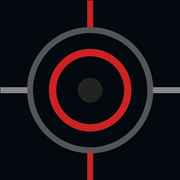
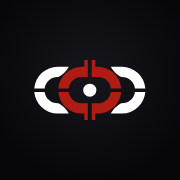
Identidade: símbolo oficial Moked no lugar do "alvo" antigo e nome do app "Moked CheckTest" (#200)
- Novo componente src/MokedSimbolo.jsx (SVG oficial enviado pelo Marcio): arcos/ponto em branco no fundo escuro
  do app, preto nos documentos em fundo claro; vermelho Moked #AE1C13.
- O alvo redondo saiu dos cabeçalhos (Home, painéis, registros, leitura) e do relatório KeyAccess.
- Ícones do app (192, 512, apple-touch) gerados a partir do SVG.
- Nome: "MokLog CheckTest" → "Moked CheckTest" em telas, rodapés de relatórios, notificações, título e manifesto.
  Dentro de cada área o cabeçalho segue com o nome da divisão (MokLog, MokPat, MokImp).

Claude-Session: https://claude.ai/code/session_01NDCy4kmWMLLikTJUNKBR2a

Changed region(s): [[0.0, 0.0, 1.0, 1.0]]

diff --git a/src/App.jsx b/src/App.jsx
@@ -1,4 +1,5 @@
 import { Ico, EMOJI_PARA_ICONE } from "./Icones";
+import MokedSelo from "./MokedSimbolo";
 import { temaMoked, badgeMoked, estadoMoked, ESTADOS_MOKED } from "./temaMoked";
 import { getDocsSeguro } from "./lerServidor";
 import React, { useState, useEffect, useCallback, useRef, useMemo } from "react";
@@ -274,7 +275,7 @@ async function sendEmailJS(subject, message, fromName) {
         service_id: EMAILJS_SERVICE_ID,
         template_id: EMAILJS_TEMPLATE_ID,
         user_id: EMAILJS_PUBLIC_KEY,
-        template_params: { subject, message, name: fromName || "MokLog CheckTest", email: "moklog@moked.com.br" }
+        template_params: { subject, message, name: fromName || "Moked CheckTest", email: "moklog@moked.com.br" }
       })
     });
     return true;
@@ -388,10 +389,10 @@ function checkPendingNotifications(stored) {
     const todayStr = now.toLocaleDateString("sv-SE");
     const filledToday = lastDate === todayStr;
     if(hour >= 8 && hour < 14) {
-      sendNotification("MokLog CheckTest", `${p.id} – ${p.name}: Lembrete do teste semanal de hoje!`);
+      sendNotification("Moked CheckTest", `${p.id} – ${p.name}: Lembrete do teste semanal de hoje!`);
     }
     if(hour >= 14 && !filledToday) {
-      sendNotification("MokLog CheckTest ⚠", `${p.id} – Teste semanal ainda não registrado. Não esqueça!`);
+      sendNotification("Moked CheckTest ⚠", `${p.id} – Teste semanal ainda não registrado. Não esqueça!`);
     }
   });
   } catch(e){ console.log("Notif check error:",e); }
@@ -1065,36 +1066,8 @@ function StatusRing({ pct=0, size=64, color="#22c55e", empty=false }) {
   );
 }
 
-function MoklogLogo({ size = 44 }) {
-  return (
-    <svg width={size} height={size} viewBox="0 0 100 100" xmlns="http://www.w3.org/2000/svg">
-      <defs>
-        <radialGradient id="bgGrad" cx="50%" cy="50%" r="50%">
-          <stop offset="0%" stopColor="#2a2a2a"/><stop offset="100%" stopColor="#111"/>
-        </radialGradient>
-        <linearGradient id="metalGrad" x1="0%" y1="0%" x2="100%" y2="100%">
-          <stop offset="0%" stopColor="#d0d0d0"/><stop offset="40%" stopColor="#888"/>
-          <stop offset="60%" stopColor="#aaa"/><stop offset="100%" stopColor="#555"/>
-        </linearGradient>
-        <linearGradient id="redGrad" x1="0%" y1="0%" x2="100%" y2="100%">
-          <stop offset="0%" stopColor="#cc2222"/><stop offset="50%" stopColor="#991111"/>
-          <stop offset="100%" stopColor="#7a0e0e"/>
-        </linearGradient>
-      </defs>
-      <rect width="100" height="100" rx="14" fill="url(#bgGrad)"/>
-      <circle cx="50" cy="50" r="38" fill="none" stroke="url(#metalGrad)" strokeWidth="7"/>
-      <circle cx="50" cy="50" r="26" fill="none" stroke="url(#redGrad)" strokeWidth="8"/>
-      <circle cx="50" cy="50" r="7" fill="#111"/><circle cx="50" cy="50" r="5" fill="#222"/>
-      <rect x="47.5" y="8" width="5" height="18" rx="2" fill="url(#redGrad)"/>
-      <rect x="47.5" y="74" width="5" height="18" rx="2" fill="url(#redGrad)"/>
-      <rect x="8" y="47.5" width="18" height="5" rx="2" fill="url(#metalGrad)"/>
-      <rect x="74" y="47.5" width="18" height="5" rx="2" fill="url(#metalGrad)"/>
-      <path d="M14 30 L8 30 L8 70 L14 70" fill="none" stroke="url(#metalGrad)" strokeWidth="4" strokeLinecap="round"/>
-      <path d="M86 30 L92 30 L92 70 L86 70" fill="none" stroke="url(#metalGrad)" strokeWidth="4" strokeLinecap="round"/>
-      <circle cx="35" cy="32" r="3" fill="white" opacity="0.25"/>
-    </svg>
-  );
-}
+// 12/11/2026: o "alvo" redondo saiu; o cabeçalho usa o símbolo oficial Moked (src/MokedSimbolo.jsx).
+const MoklogLogo = MokedSelo;
 
 function HealthRing({ pct, size=56 }) {
   const r=22, circ=2*Math.PI*r, dash=circ*(pct/100);
@@ -2536,13 +2509,13 @@ function ReportScreen({project, state, meta, photos, ctmkData={}, onBack, onHome
   const [emailSent,setEmailSent]=useState(false);
   const [sending,setSending]=useState(false);
   const text=generateReportText(project,state,meta,photos);
-  const subject=`[${project.id}] MokLog CheckTest – Teste Semanal – ${fmtDate(meta.date)}`;
+  const subject=`[${project.id}] Moked CheckTest – Teste Semanal – ${fmtDate(meta.date)}`;
   const handleWhatsApp=()=>{
     const h=computeHealth(project,state);
     const waIssues=[];
     for(const cat of project.categories){const s=state[cat.id];if(!s)continue;if(cat.type==="single"){const st=resolveStatus(s);if(st!=="ok")waIssues.push(`• ${cat.label}: ${st==="partial"?"Parcial":"Inop"}`);}else if(cat.type==="items"){s.forEach((v,i)=>{const st=resolveStatus(v);if(st!=="ok")waIssues.push(`• ${cat.itemLabels[i]}: ${st==="partial"?"Parcial":"Inop"}`);});}else if(cat.type==="count"){const inopN=s.inoperative?.length??0;if(inopN>0)waIssues.push(`• ${cat.label}: ${inopN} inop`);}}
     const inopText=waIssues.length>0?`\n\n*Itens com problema:*\n${waIssues.slice(0,10).join("\n")}${waIssues.length>10?`\n...+${waIssues.length-10} mais`:""}`:"\n\n✅ Todos os itens operando normalmente.";
-    const msg=encodeURIComponent(`*[${project.id}] MokLog CheckTest – ${fmtDate(meta.date)}*\n📍 ${project.name}\n📊 Saúde: *${h.pct}%* | ✅ ${h.ok} OK | ⚠ ${h.partial} Parcial | 🔴 ${h.inop} Inop\n👤 Líder: ${meta.leader||"—"} · CCO: ${meta.cco||"—"}\n✍ Assinatura: ${meta.signature||"—"}`+inopText+`\n\n🔗 https://moklog-checktest.vercel.app\n_MokLog CheckTest © Moked Security_`);
+    const msg=encodeURIComponent(`*[${project.id}] Moked CheckTest – ${fmtDate(meta.date)}*\n📍 ${project.name}\n📊 Saúde: *${h.pct}%* | ✅ ${h.ok} OK | ⚠ ${h.partial} Parcial | 🔴 ${h.inop} Inop\n👤 Líder: ${meta.leader||"—"} · CCO: ${meta.cco||"—"}\n✍ Assinatura: ${meta.signature||"—"}`+inopText+`\n\n🔗 https://moklog-checktest.vercel.app\n_Moked CheckTest © Moked Security_`);
     window.open(`https://wa.me/?text=${msg}`,"_blank");
   };
   const handleEmail=async()=>{
@@ -2551,7 +2524,7 @@ function ReportScreen({project, state, meta, photos, ctmkData={}, onBack, onHome
     const issues=[];
     for(const cat of project.categories){const s=state[cat.id];if(!s)continue;if(cat.type==="single"){const st=resolveStatus(s);if(st!=="ok")issues.push(`  • ${cat.label}: ${st==="partial"?"PARCIAL":"INOPERANTE"}${s.since?` desde ${fmtDate(s.since)}`:""} ${s.note?`- ${s.note}`:""}`);}else if(cat.type==="items"){s.forEach((v,i)=>{const st=resolveStatus(v);if(st!=="ok")issues.push(`  • ${cat.label} / ${cat.itemLabels[i]}: ${st==="partial"?"PARCIAL":"INOPERANTE"}${v.since?` desde ${fmtDate(v.since)}`:""} ${v.note?`- ${v.note}`:""}`);});}else if(cat.type==="count"){(s.inoperative??[]).forEach(it=>issues.push(`  • ${cat.label} [${it.id||"?"}]${it.since?` desde ${fmtDate(it.since)}`:""} ${it.note?`- ${it.note}`:""}`));}}
     const msg=[`================================================`,"  MOKLOG CHECKTEST - RELATORIO DE TESTE SEMANAL","================================================",`Projeto  : ${project.id} - ${project.name}`,`Data     : ${fmtDate(meta.date)}`,`Lider    : ${meta.leader||"--"}`,`CCO      : ${meta.cco||"--"}`,`Assinatura: ${meta.signature||"--"}`,`Saude: ${h.pct}% | OK: ${h.ok} | Parcial: ${h.partial} | Inop: ${h.inop}`,issues.length>0?`\nProblemas:\n${issues.join("\n")}`:"Todos OK","\nhttps://moklog-checktest.vercel.app","================================================"].join("\n");
-    const success=await sendEmailJS(subject,msg,`MokLog CheckTest – ${project.id}`);
+    const success=await sendEmailJS(subject,msg,`Moked CheckTest – ${project.id}`);
     setSending(false);
     if(success)setEmailSent(true);else alert("Erro ao enviar. Verifique a conexao.");
   };
@@ -2628,7 +2601,7 @@ function ViewScreen({projectId, token, stored}) {
         <div style={{background:"#060c18",border:"1px solid #0f172a",borderRadius:12,padding:"16px",marginBottom:12}}>
           <div style={{display:"flex",alignItems:"center",gap:12}}>
             <MoklogLogo size={40}/>
-            <div style={{flex:1}}><div style={{fontSize:15,fontWeight:800,color:"#f1f5f9"}}>MokLog CheckTest</div><div style={{fontSize:12,color:"#cc2222",fontWeight:700}}>{project.id} – {project.name}</div><div style={{fontSize:11,color:"#64748b"}}>Pendencias para manutencao · {fmtDate(last.meta?.date)}</div></div>
+            <div style={{flex:1}}><div style={{fontSize:15,fontWeight:800,color:"#f1f5f9"}}>Moked CheckTest</div><div style={{fontSize:12,color:"#cc2222",fontWeight:700}}>{project.id} – {project.name}</div><div style={{fontSize:11,color:"#64748b"}}>Pendencias para manutencao · {fmtDate(last.meta?.date)}</div></div>
             <HealthRing pct={h.pct} size={52}/>
           </div>
         </div>
@@ -2647,7 +2620,7 @@ function ViewScreen({projectId, token, stored}) {
             </div>
           ))}
         </div>
-        <div style={{marginTop:16,fontSize:11,color:"#94a3b8",textAlign:"center"}}>MokLog CheckTest © Moked Security Consulting · Somente leitura</div>
+        <div style={{marginTop:16,fontSize:11,color:"#94a3b8",textAlign:"center"}}>Moked CheckTest © Moked Security Consulting · Somente leitura</div>
       </div>
     </div>
   );

diff --git a/src/KeyAccessFalha.jsx b/src/KeyAccessFalha.jsx
@@ -1,10 +1,11 @@
 import CampoData from "./CampoData";
+import { simboloSVG } from "./MokedSimbolo";
 import { Ico, IcoTxt } from "./Icones";
 import { iconeTema } from "./temaClaro";
 import { checkPin } from "./session";
 // ════════════════════════════════════════════════════════════════════════
 // KeyAccessFalha.jsx — Registro de falhas do sistema KeyAccess
-// MokLog CheckTest · Moked Consulting Security
+// Moked CheckTest · Moked Consulting Security
 //
 // Fluxo de campo (SEM PIN): Home → escolhe projeto → escolhe quem está
 // registrando (lista da Equipe) → marca o tipo de falha → salva.
@@ -37,21 +38,7 @@ import { grantSession, hasGerencial } from "./session";
 const COL = "keyaccess_falhas";
 
 // Brasão Moked (mesmo do Mapa de Equipe) — usado no cabeçalho do PDF.
-const MOKED_LOGO_SVG = `<svg class="logo" width="54" height="54" viewBox="0 0 100 100" xmlns="http://www.w3.org/2000/svg">
-  <defs>
-    <radialGradient id="kbg" cx="50%" cy="50%" r="50%"><stop offset="0%" stop-color="#2a2a2a"/><stop offset="100%" stop-color="#111"/></radialGradient>
-    <linearGradient id="kmetal" x1="0%" y1="0%" x2="100%" y2="100%"><stop offset="0%" stop-color="#d0d0d0"/><stop offset="40%" stop-color="#888"/><stop offset="100%" stop-color="#555"/></linearGradient>
-    <linearGradient id="kred" x1="0%" y1="0%" x2="100%" y2="100%"><stop offset="0%" stop-color="#cc2222"/><stop offset="50%" stop-color="#991111"/><stop offset="100%" stop-color="#7a0e0e"/></linearGradient>
-  </defs>
-  <rect width="100" height="100" rx="14" fill="url(#kbg)"/>
-  <circle cx="50" cy="50" r="38" fill="none" stroke="url(#kmetal)" stroke-width="7"/>
-  <circle cx="50" cy="50" r="26" fill="none" stroke="url(#kred)" stroke-width="8"/>
-  <circle cx="50" cy="50" r="7" fill="#111"/>
-  <rect x="47.5" y="8" width="5" height="18" rx="2" fill="url(#kred)"/>
-  <rect x="47.5" y="74" width="5" height="18" rx="2" fill="url(#kred)"/>
-  <rect x="8" y="47.5" width="18" height="5" rx="2" fill="url(#kmetal)"/>
-  <rect x="74" y="47.5" width="18" height="5" rx="2" fill="url(#kmetal)"/>
-</svg>`;
+const MOKED_LOGO_SVG = simboloSVG({ largura: 78, fundo: "claro", classe: "logo" });
 
 // Apenas estes 8 projetos usam KeyAccess (P260A/B/C e P505 não usam).
 export const PROJETOS_KA = [
@@ -908,7 +895,7 @@ async function gerarPDFRelatorioKA({ modo, projsSel, dadosPorProjeto, dataIni, d
   *{box-sizing:border-box;margin:0;padding:0}
   body{font-family:'Segoe UI',Arial,sans-serif;background:#fff;color:#121212;font-size:12px;padding:18px}
   .hdr{display:flex;align-items:center;gap:16px;border-bottom:3px solid #B21E27;padding-bottom:14px;margin-bottom:16px}
-  .hdr .logo{width:54px;height:54px;flex:none}
+  .hdr .logo{width:78px;height:auto;flex:none}
   .hdr .brand{font-size:11px;color:#64748b;font-weight:800;text-transform:uppercase;letter-spacing:.7px}
   .hdr .title{font-size:20px;font-weight:900;color:#121212;line-height:1.15;margin-top:2px}
   .hdr .sub{font-size:12px;color:#B21E27;font-weight:700;margin-top:2px}
@@ -990,7 +977,7 @@ ${blocoGeralHTML}
 
 ${blocos}
 
-<div class="footer">MokLog CheckTest © Moked Consulting Security · Análise Técnica de Falhas KeyAccess · Classificação Local/Geral por cruzamento dos ${PROJETOS_KA.length} parques</div>
+<div class="footer">Moked CheckTest © Moked Consulting Security · Análise Técnica de Falhas KeyAccess · Classificação Local/Geral por cruzamento dos ${PROJETOS_KA.length} parques</div>
 </body></html>`;
 
   const blob = new Blob([html],{type:"text/html"});

diff --git a/src/MokedSimbolo.jsx b/src/MokedSimbolo.jsx
@@ -1,0 +1,36 @@
+// Símbolo oficial Moked (SVG enviado pelo Marcio em 12/11/2026). Substitui o "alvo" redondo antigo em todo o app.
+// No desenho original os arcos e o ponto central são pretos; em fundo escuro (o app) eles vão em branco — o vermelho
+// Moked (#AE1C13) não muda. `fundo="claro"` devolve o desenho exatamente como no arquivo.
+export const VERMELHO_MOKED = "#AE1C13";
+const ARCOS = [
+  "M 159.39 31 L 108 31 A 107 107 0 0 0 1.3 130 L 48.54 130 A 60 60 0 0 1 108 78 L 111.77 78 A 122 122 0 0 0 159.39 31 Z",
+  "M 159.39 245 L 108 245 A 107 107 0 0 1 1.3 146 L 48.54 146 A 60 60 0 0 0 108 198 L 111.77 198 A 122 122 0 0 1 159.39 245 Z",
+  "M 350.61 31 L 402 31 A 107 107 0 0 1 508.7 130 L 461.46 130 A 60 60 0 0 0 402 78 L 398.23 78 A 122 122 0 0 1 350.61 31 Z",
+  "M 350.61 245 L 402 245 A 107 107 0 0 0 508.7 146 L 461.46 146 A 60 60 0 0 1 402 198 L 398.23 198 A 122 122 0 0 0 350.61 245 Z",
+];
+const NUCLEO = [
+  "M 230 0 L 246 0 L 246 78 L 218 78 A 60 60 0 0 0 158.54 130 L 111.3 130 A 107 107 0 0 1 218 31 L 230 31 Z",
+  "M 230 276 L 246 276 L 246 198 L 218 198 A 60 60 0 0 1 158.54 146 L 111.3 146 A 107 107 0 0 0 218 245 L 230 245 Z",
+  "M 280 0 L 264 0 L 264 78 L 292 78 A 60 60 0 0 1 351.46 130 L 398.7 130 A 107 107 0 0 0 292 31 L 280 31 Z",
+  "M 280 276 L 264 276 L 264 198 L 292 198 A 60 60 0 0 0 351.46 146 L 398.7 146 A 107 107 0 0 1 292 245 L 280 245 Z",
+];
+// Miolo do SVG (sem a tag <svg>), para tela e para os documentos em HTML.
+export const mioloSimbolo = (neutro) => `${ARCOS.map((d) => `<path d="${d}" fill="${neutro}"/>`).join("")}${NUCLEO.map((d) => `<path d="${d}" fill="${VERMELHO_MOKED}"/>`).join("")}<circle cx="255" cy="138" r="30" fill="${neutro}"/>`;
+export const simboloSVG = ({ largura = 54, fundo = "claro", classe = "" } = {}) => `<svg${classe ? ` class="${classe}"` : ""} width="${largura}" height="${Math.round((largura * 276) / 510)}" viewBox="0 0 510 276" xmlns="http://www.w3.org/2000/svg" role="img" aria-label="Moked">${mioloSimbolo(fundo === "escuro" ? "#ffffff" : "#000000")}</svg>`;
+
+// Só o símbolo (proporção 510 × 276).
+export function MokedSimbolo({ largura = 60, fundo = "escuro", style }) {
+  const neutro = fundo === "escuro" ? "#ffffff" : "#000000";
+  return <svg width={largura} height={(largura * 276) / 510} viewBox="0 0 510 276" xmlns="http://www.w3.org/2000/svg" role="img" aria-label="Moked" style={style}>
+    {ARCOS.map((d, i) => <path key={`a${i}`} d={d} fill={neutro} />)}
+    {NUCLEO.map((d, i) => <path key={`n${i}`} d={d} fill={VERMELHO_MOKED} />)}
+    <circle cx="255" cy="138" r="30" fill={neutro} />
+  </svg>;
+}
+
+// Selo quadrado (mesmo espaço que o alvo antigo ocupava nos cabeçalhos): fundo escuro com o símbolo dentro.
+export default function MokedSelo({ size = 44 }) {
+  return <span aria-hidden="false" style={{ width: size, height: size, flexShrink: 0, display: "inline-flex", alignItems: "center", justifyContent: "center", borderRadius: size * 0.22, background: "radial-gradient(circle at 50% 40%, #1c1c22 0%, #0a0a0d 75%)", border: "1px solid #2a2a31" }}>
+    <MokedSimbolo largura={size * 0.8} />
+  </span>;
+}

diff --git a/src/relatorios/laudoSemanal.js b/src/relatorios/laudoSemanal.js
@@ -94,7 +94,7 @@ export function montarLaudoSemanal(project, state, meta, { ctmkInfo = null, ener
     <div class="mk-k"><div class="mk-kv ${pend.length ? "mk-da" : ""}">${pend.length}</div><div class="mk-kl">pendências</div><div class="mk-mu mk-sm">${r.inop} inoperantes · ${r.parcial} parciais</div></div>
     <div class="mk-k"><div class="mk-kv ${maiorAging > 0 ? "mk-da" : ""}">${maiorAging ? maiorAging + " d" : "—"}</div><div class="mk-kl">maior tempo em aberto</div><div class="mk-mu mk-sm">${maior ? escHTML(maior.unico ? maior.cat : maior.item) : "sem pendências"}</div></div>
     <div class="mk-k"><div class="mk-kv ${pend.length && semTrat ? "mk-wa" : ""}">${pend.length ? `${pend.length - semTrat} de ${pend.length}` : "—"}</div><div class="mk-kl">com tratativa registrada</div><div class="mk-mu mk-sm">${pend.length ? `${semTrat} sem tratativa` : ""}</div></div></section>
-  <div class="mk-nota" style="margin:-4px 0 10px">${single ? "Levantamento feito em vistoria presencial pelo consultor Moked, item a item, com as quantidades informadas pelo cliente; não substitui laudo técnico de fabricante." : "Cada dispositivo é testado individualmente e registrado em tempo real pelo líder no MokLog CheckTest."} Status: 0% = inoperante · 1–99% = parcial · 100% = operacional. Saúde = (operacionais + 0,5 × parciais) ÷ ativos testados; cada câmera do CFTV conta como um ativo.</div>`;
+  <div class="mk-nota" style="margin:-4px 0 10px">${single ? "Levantamento feito em vistoria presencial pelo consultor Moked, item a item, com as quantidades informadas pelo cliente; não substitui laudo técnico de fabricante." : "Cada dispositivo é testado individualmente e registrado em tempo real pelo líder no Moked CheckTest."} Status: 0% = inoperante · 1–99% = parcial · 100% = operacional. Saúde = (operacionais + 0,5 × parciais) ÷ ativos testados; cada câmera do CFTV conta como um ativo.</div>`;
 
   // ── Disponibilidade por sistema (tabela com barra) + onde estão as falhas
   const mx = Math.max(1, ...fs.map((f) => f.inop + f.parcial));
@@ -173,5 +173,5 @@ export function montarLaudoSemanal(project, state, meta, { ctmkInfo = null, ener
 
   const extras = single?.extrasHTML || "";
   return documentoMoked({ project, titulo, subtitulo: sub, numero, hoje, corpo: css + hero + kpis + disponibilidade + blocoGravacao + extras + pendencias + energia, fecho: execucao, empresaLogo: !single,
-    rodape: `${numero} · ${single ? "Relatório Situacional" : "Laudo Técnico Semanal"} · ${project.id} ${project.name || ""} · ${semana} · Moked Consulting Security · MokLog CheckTest` });
+    rodape: `${numero} · ${single ? "Relatório Situacional" : "Laudo Técnico Semanal"} · ${project.id} ${project.name || ""} · ${semana} · Moked Consulting Security · Moked CheckTest` });
 }

diff --git a/src/relatorios/padraoMoked.js b/src/relatorios/padraoMoked.js
@@ -20,7 +20,7 @@ export function barrasMoked(itens, fmt = (v) => String(v)) {
 // fecho (opcional): último bloco do relatório, impresso JUNTO da assinatura — evita folha só com assinatura.
 // Bloco "Base dos dados + assinatura". Exportado para ser embutido no fim de uma tabela (CCO), junto das últimas linhas.
 export function blocoFimMoked() {
-  return `<section class="mk-fim"><div><div class="mk-mu">Base dos dados</div><div class="mk-sm">Registros lançados pelas equipes no MokLog CheckTest, supervisionados pela Moked Consulting Security.</div></div>
+  return `<section class="mk-fim"><div><div class="mk-mu">Base dos dados</div><div class="mk-sm">Registros lançados pelas equipes no Moked CheckTest, supervisionados pela Moked Consulting Security.</div></div>
 <div class="mk-ass"><div class="mk-linha"></div><b>José Fonseca</b><div class="mk-mu">Consultor de Segurança · Moked Consulting Security</div><div class="mk-mu">jose.fonseca@moked.com.br</div></div></section>`;
 }
 
@@ -29,7 +29,7 @@ export function blocoFimMoked() {
 // empresaLogo=false: só o logo Moked (documentos de grupo/gerenciais, sem empresa de segurança única).
 export function documentoMoked({ project, titulo, subtitulo, numero, corpo, interno = false, tag = "", hoje = new Date(), rodape, fecho = "", fimEmbutido = false, empresaLogo = true }) {
   const theme = empresaLogo && project?.id ? (getTheme(project.id) || {}) : {};
-  return `<!DOCTYPE html><html lang="pt-BR"><head><meta charset="UTF-8"><title>${escHTML(titulo)} — ${escHTML(project?.id || "")}</title><style>${cssMoked()}${rodapePagina(rodape || `${numero} · ${titulo} · ${project?.id || ""} ${project?.name || ""} · Moked Consulting Security · MokLog CheckTest`)}</style></head><body>
+  return `<!DOCTYPE html><html lang="pt-BR"><head><meta charset="UTF-8"><title>${escHTML(titulo)} — ${escHTML(project?.id || "")}</title><style>${cssMoked()}${rodapePagina(rodape || `${numero} · ${titulo} · ${project?.id || ""} ${project?.name || ""} · Moked Consulting Security · Moked CheckTest`)}</style></head><body>
 <div class="mk-noprint"><button onclick="window.print()" class="mk-print">Imprimir / Salvar PDF</button></div>
 <header class="mk-topo"><div class="mk-logos"><img src="${MOKED_LOGO}" class="mk-lm" alt="Moked Consulting Security">${theme.empresaLogo ? `<span class="mk-sep"></span><img src="${theme.empresaLogo}" class="mk-lg" alt="${escHTML(theme.empresaNome || "")}">` : ""}</div>
 <div class="mk-meta">${interno ? '<div class="mk-tag">VERSÃO INTERNA</div>' : tag ? `<div class="mk-tag">${escHTML(tag)}</div>` : ""}<div><b>${escHTML(titulo)}</b> · Nº ${escHTML(numero)}</div><div>Emissão ${hoje.toLocaleDateString("pt-BR")} · José Fonseca</div></div></header>

diff --git a/src/relatorios/executivoRelatorio.js b/src/relatorios/executivoRelatorio.js
@@ -13,7 +13,7 @@ import { consolidarRondas, periodoUltimosDias } from "./rondaVirtualRelatorio";
 // Nível 3 (resumo de cada relatório): cada fonte chega já carregada pelo app no clique (só leitura).
 // Convenção das fontes em extras[pid]: undefined = não pedida; null = leitura falhou ("não aferido"); [] = sem registros.
 export const MODULOS_FUTUROS = ["Análise de risco", "Equipamentos críticos"];
-// Onde está o relatório completo de cada tema no MokLog CheckTest (nomes como aparecem no app).
+// Onde está o relatório completo de cada tema no Moked CheckTest (nomes como aparecem no app).
 export const RELATORIO_COMPLETO = {
   "Checklist semanal": "Laudo semanal — Histórico de Relatórios do projeto",
   "Consolidado (tendência)": "Consolidado do período — Histórico de Relatórios do projeto",
@@ -179,7 +179,7 @@ export function montarProjetos(rows, extras = {}, agora = new Date()) {
     });
     cards.forEach((c) => {
       const rel = RELATORIO_COMPLETO[c.titulo]; if (!rel || c.efeito === "não aferido" || c.efeito === "sem registros") return;
-      c.detalhe = `${c.detalhe || `<p>${escHTML(c.texto)}.</p>`}<p class="rel">Mais detalhes no relatório específico: <b>${escHTML(rel)}</b>, no MokLog CheckTest.</p>`;
+      c.detalhe = `${c.detalhe || `<p>${escHTML(c.texto)}.</p>`}<p class="rel">Mais detalhes no relatório específico: <b>${escHTML(rel)}</b>, no Moked CheckTest.</p>`;
     });
     return { id: r.id, nome: r.name, score: r.score, base: r.base, semChecklist: !!r.semChecklist, penalidades: r.penalidades || [], tendencia: ex.tendencia || [], cards };
   });
@@ -239,7 +239,7 @@ button:focus-visible,a:focus-visible{outline:2px solid var(--moked);outline-offs
 <header><div class="marca">${logoSrc ? `<img src="${escHTML(logoSrc)}" alt="Moked Consulting Security">` : ""}<div><b>Relatório Executivo — ${escHTML(grupoLabel)}</b><span>Saúde operacional consolidada por projeto</span></div></div>
 <div class="emit">Emissão ${escHTML(emissao)}<br>Moked Consulting Security</div></header>
 <main id="app"></main>
-<div class="rodape">${escHTML(notaCalculo)} Documento gerado pelo MokLog CheckTest com os dados disponíveis no momento da emissão; não se atualiza sozinho.</div>
+<div class="rodape">${escHTML(notaCalculo)} Documento gerado pelo Moked CheckTest com os dados disponíveis no momento da emissão; não se atualiza sozinho.</div>
 </div>
 <script>
 var D=${json};var GRUPO=${JSON.stringify(escHTML(grupoLabel))};var MEDIA=${media};var FUT=${JSON.stringify(MODULOS_FUTUROS)};var est=null;

diff --git a/src/generatePDF.js b/src/generatePDF.js
@@ -1,4 +1,4 @@
-// ── MokLog CheckTest — generatePDF.js
+// ── Moked CheckTest — generatePDF.js
 // Laudo semanal, consolidado e comparativo de grupo — todos no padrão Moked (relatorios/padraoMoked.js).
 // THEMES: logo/nome da empresa de segurança por projeto (usado no cabeçalho dos documentos).
 import QRCode from "qrcode";
@@ -278,7 +278,7 @@ export function montarConsolidado(project, reports, opts = {}) {
   const equipe = sorted.map((r, i) => `<tr><td><b>${escHTML(rot[i])}</b> <span class="mu">${fmtDate(r.meta?.date).slice(0, 5)}</span></td><td>${escHTML(r.meta?.leader || "--")}</td><td>${escHTML(r.meta?.cco || "--")}</td><td>${escHTML(r.meta?.moked || "--")}</td><td>${r.meta?.start && r.meta?.end ? `${escHTML(r.meta.start)}–${escHTML(r.meta.end)}` : "--"}</td><td class="num">${r.meta?.tempoPreenchimentoSeg ? Math.floor(r.meta.tempoPreenchimentoSeg / 60) + " min" : "--"}</td></tr>`).join("");
   const docNum = `MK-${project.id}-RC-${(datas[n - 1] || "0000").replace(/-/g, "").slice(-4)}`;
   const periodo = `${fmtDate(datas[0]).slice(0, 5)} a ${fmtDate(datas[n - 1])}`;
-  const html = `<!DOCTYPE html><html lang="pt-BR"><head><meta charset="UTF-8"><title>Relatório Consolidado — ${escHTML(project.id)} — ${periodo}</title><style>${consolidadoNovoCSS()}${rodapePagina(`${docNum} · Relatório Consolidado · ${project.id} ${project.name || ""} · Moked Consulting Security · MokLog CheckTest`)}</style></head><body>
+  const html = `<!DOCTYPE html><html lang="pt-BR"><head><meta charset="UTF-8"><title>Relatório Consolidado — ${escHTML(project.id)} — ${periodo}</title><style>${consolidadoNovoCSS()}${rodapePagina(`${docNum} · Relatório Consolidado · ${project.id} ${project.name || ""} · Moked Consulting Security · Moked CheckTest`)}</style></head><body>
 <div class="no-print" style="text-align:center;margin:0 0 16px"><button onclick="window.print()" class="bt-print">Imprimir / Salvar PDF</button></div>
 <header class="topo"><div class="logos"><img src="${MOKED_LOGO}" class="lm" alt="Moked Consulting Security">${theme.empresaLogo ? `<span class="sep"></span><img src="${theme.empresaLogo}" class="lg" alt="${escHTML(theme.empresaNome || "")}">` : ""}</div>
 <div class="meta">${opts.interno ? '<div class="tag">VERSÃO INTERNA</div>' : ""}<div><b>Relatório Consolidado</b> · Nº ${docNum}</div><div>Emissão ${hoje.toLocaleDateString("pt-BR")} · José Fonseca</div></div></header>

diff --git a/src/EnergiaOcorrencias.jsx b/src/EnergiaOcorrencias.jsx
@@ -169,7 +169,7 @@ function montarMensagemWhats(project, config, ev){
     `👥 Inquilino(s) impactado(s): ${ev.inquilinoImpactado?(ev.inquilinosAfetados||"Sim"):"Não"}`,
   ];
   if(ev.obs) linhas.push(``, `📝 ${ev.obs}`);
-  linhas.push(``, `Operador: ${ev.operador||"—"} · Registrado via MokLog CheckTest`);
+  linhas.push(``, `Operador: ${ev.operador||"—"} · Registrado via Moked CheckTest`);
   return linhas.join("\\n");
 }
 function abrirWhatsApp(project, config, ev){
@@ -227,7 +227,7 @@ function gerarPdfDieselAvulso(project, ev){
   </div>
 </div>
 <div class="intro">
-  Este registro documenta uma <b>solicitação avulsa de abastecimento de diesel</b> para os geradores do site, aberta pela equipe de segurança sem vínculo com queda de energia. Inclui a empresa acionada, os horários cravados de cada etapa, o tempo de resposta do fornecedor e a quantidade abastecida — gerado pelo sistema <b>MokLog CheckTest</b>.
+  Este registro documenta uma <b>solicitação avulsa de abastecimento de diesel</b> para os geradores do site, aberta pela equipe de segurança sem vínculo com queda de energia. Inclui a empresa acionada, os horários cravados de cada etapa, o tempo de resposta do fornecedor e a quantidade abastecida — gerado pelo sistema <b>Moked CheckTest</b>.
 </div>
 <div class="kpis">
   <div class="kpi"><div class="kpi-val">${tempoResposta}</div><div class="kpi-lbl">Tempo de resposta</div></div>
@@ -252,7 +252,7 @@ ${dz.foto?`<div class="foto"><div class="sec-title">📷 Evidência — bomba do
   <div class="resp">Responsável pela extração<br><b>José Fonseca</b><br>Gestor de Divisão — MokLog</div>
   <div class="selo"><b>Moked Consulting Security</b><br>30+ anos · ISO 9001:2015 · ISO 37001:2016</div>
 </div>
-<div class="footer">MokLog CheckTest © Moked Consulting Security · Solicitação de Diesel · ${project.id} — ${project.name||""}</div>
+<div class="footer">Moked CheckTest © Moked Consulting Security · Solicitação de Diesel · ${project.id} — ${project.name||""}</div>
 </body></html>`;
   const blob = new Blob([html],{type:"text/html"});
   const url = URL.createObjectURL(blob);

diff --git a/src/AnaliseRisco.jsx b/src/AnaliseRisco.jsx
@@ -1,5 +1,5 @@
 // ─────────────────────────────────────────────────────────────
-// AnaliseRisco.jsx — Relatório Situacional / Análise de Risco (MokLog CheckTest)
+// AnaliseRisco.jsx — Relatório Situacional / Análise de Risco (Moked CheckTest)
 // Consolida até 7 fontes JÁ inseridas no app e gera PDF padrão MOKED.
 //
 // Fontes:
@@ -1638,7 +1638,7 @@ export function gerarHTMLAnaliseRisco(ctx, mapaDataUrl = null, erroMapa = null) 
   .consultor{margin-top:16px;padding:14px 18px}.consultor p{margin:4px 0 0}.assina{margin-top:14px;padding-top:10px}
   .consultor,.assina{page-break-inside:avoid;break-inside:avoid}
   .ar-fecho{page-break-inside:avoid;break-inside:avoid}   /* pontos fortes + palavra do consultor + assinatura ficam juntos */
-  @page{@bottom-left{content:"${String(`${ref} · Análise de Risco · ${project.id} ${project.name || ""} · Moked Consulting Security · MokLog CheckTest`).replace(/[\\"]/g, "")}";font-family:Calibri,Carlito,Arial,sans-serif;font-size:7.5pt;color:#9CA3AF}@bottom-right{content:"pág. " counter(page) " de " counter(pages);font-family:Calibri,Carlito,Arial,sans-serif;font-size:7.5pt;color:#9CA3AF}}
+  @page{@bottom-left{content:"${String(`${ref} · Análise de Risco · ${project.id} ${project.name || ""} · Moked Consulting Security · Moked CheckTest`).replace(/[\\"]/g, "")}";font-family:Calibri,Carlito,Arial,sans-serif;font-size:7.5pt;color:#9CA3AF}@bottom-right{content:"pág. " counter(page) " de " counter(pages);font-family:Calibri,Carlito,Arial,sans-serif;font-size:7.5pt;color:#9CA3AF}}
 `;
 
   return `<!DOCTYPE html><html lang="pt-BR"><head><meta charset="UTF-8">
@@ -1875,7 +1875,7 @@ ${novoCSS}</style></head><body>
   </div>
 
   <div class="rodape">
-    <span><b>MokLog CheckTest</b> · documento consolidado — análise de risco patrimonial</span>
+    <span><b>Moked CheckTest</b> · documento consolidado — análise de risco patrimonial</span>
     <span>${esc(ref)} · gerado em ${esc(hoje)}</span>
   </div>
 </div>

diff --git a/src/relatorios/consolidadoMapasRelatorio.js b/src/relatorios/consolidadoMapasRelatorio.js
@@ -83,8 +83,8 @@ export function gerarConsolidadoMapasHTML({ resultado, nomeProj = (p) => p, proj
   const corpo = vazio
     ? `<div class="mk-vazio"><div class="mk-big">0</div><div class="mk-dv">Nenhum mapa concluído encontrado com esses filtros</div><div class="mk-nota">Confira o período, o projeto, o plantão e o líder escolhidos.</div></div>`
     : `${kpis(resultado.totais)}${tabelaProjetos(resultado.porProjeto, nomeProj)}${tabelaOcorrencias(resultado.ocorrencias, av)}${detalhado ? `<section><h2 class="mk-h2">Mapas do período <span class="mk-mu">· ${resultado.mapas.length}</span></h2>${resultado.mapas.map((m) => blocoMapa(m, nomeProj, av)).join("")}</section>` : ""}
-<p class="mk-nota">Base: mapas concluídos pelos líderes no MokLog CheckTest. Falta e FT seguem para a ficha do colaborador na Equipe. Km = soma do rodado informado nos veículos de cada mapa.</p>`;
+<p class="mk-nota">Base: mapas concluídos pelos líderes no Moked CheckTest. Falta e FT seguem para a ficha do colaborador na Equipe. Km = soma do rodado informado nos veículos de cada mapa.</p>`;
   const corpoFinal = fotos ? `${corpo}${av.css()}` : corpo; // css por último: já sabe quais fotos foram usadas
   const unico = projeto && projeto.id ? projeto : { id: f.projetos && f.projetos.length > 1 ? "Seleção de projetos" : "Todos os projetos", name: "" };
-  return documentoMoked({ project: unico, titulo: "Consolidado do Mapa de Equipe", subtitulo: sub, numero, corpo: corpoFinal, tag: "ACESSO GERENCIAL", hoje, empresaLogo: !!(projeto && projeto.id), rodape: `${numero} · Consolidado do Mapa de Equipe · ${unico.id} ${unico.name || ""} · Moked Consulting Security · MokLog CheckTest` });
+  return documentoMoked({ project: unico, titulo: "Consolidado do Mapa de Equipe", subtitulo: sub, numero, corpo: corpoFinal, tag: "ACESSO GERENCIAL", hoje, empresaLogo: !!(projeto && projeto.id), rodape: `${numero} · Consolidado do Mapa de Equipe · ${unico.id} ${unico.name || ""} · Moked Consulting Security · Moked CheckTest` });
 }

diff --git a/src/relatorios/matrizEfetivo.js b/src/relatorios/matrizEfetivo.js
@@ -59,11 +59,11 @@ export function montarMatrizEfetivo({ nomes = {}, ocupacoes = null, hoje = new D
   };
 
   const css = `<style>.mk-tot td{border-top:1.5px solid #111827;background:#F9FAFB}.mk-num{text-align:right;white-space:nowrap}.mk-da{color:#B91C1C}</style>`;
-  const fecho = `<p class="mk-nota">Gabarito oficial de dimensionamento Moked: ${total === TOTAL_HOMOLOGADO ? `${TOTAL_HOMOLOGADO} colaboradores homologados em ${ORDEM_PROJETOS.length} unidades` : `${total} colaboradores`}. Ativos e vagas vêm do cadastro de equipe do MokLog CheckTest na data de emissão; vaga = previsto − ativos.${parcial ? ` Totais parciais: ${ORDEM_PROJETOS.length - comDados.length} unidade(s) sem cadastro de equipe no sistema.` : ""}</p>`;
+  const fecho = `<p class="mk-nota">Gabarito oficial de dimensionamento Moked: ${total === TOTAL_HOMOLOGADO ? `${TOTAL_HOMOLOGADO} colaboradores homologados em ${ORDEM_PROJETOS.length} unidades` : `${total} colaboradores`}. Ativos e vagas vêm do cadastro de equipe do Moked CheckTest na data de emissão; vaga = previsto − ativos.${parcial ? ` Totais parciais: ${ORDEM_PROJETOS.length - comDados.length} unidade(s) sem cadastro de equipe no sistema.` : ""}</p>`;
   return documentoMoked({
     project: { id: "", name: "Rede Moked" }, titulo: "Matriz de Dimensionamento de Efetivo", numero, hoje, tag: "ACESSO GERENCIAL", empresaLogo: false,
     subtitulo: `Mapeamento de postos, escalas e efetivo · ${ORDEM_PROJETOS.length} unidades operacionais · referência ${dataBR(`${hoje.getFullYear()}-${String(hoje.getMonth() + 1).padStart(2, "0")}-${String(hoje.getDate()).padStart(2, "0")}`)}`,
     corpo: css + kpis + resumo + regras + ORDEM_PROJETOS.map(blocoUnidade).join("") + fecho,
-    rodape: `${numero} · Matriz de Dimensionamento de Efetivo · Moked Consulting Security · MokLog CheckTest`,
+    rodape: `${numero} · Matriz de Dimensionamento de Efetivo · Moked Consulting Security · Moked CheckTest`,
   });
 }

diff --git a/api/local.js b/api/local.js
@@ -19,7 +19,7 @@ function paginaHTML(pid) {
   const desc = `Compartilhamos o endereço para sua chegada tranquila no ${nome} (${pid}), projeto com consultoria da Moked. ${c.endereco}`;
   return `<!doctype html><html lang="pt-BR"><head><meta charset="utf-8"><meta name="viewport" content="width=device-width,initial-scale=1">
 <title>${esc(titulo)} · Moked</title>
-<meta property="og:type" content="website"><meta property="og:site_name" content="Moked Consulting Security · MokLog CheckTest">
+<meta property="og:type" content="website"><meta property="og:site_name" content="Moked Consulting Security · Moked CheckTest">
 <meta property="og:title" content="${esc(titulo)} · consultoria Moked"><meta property="og:description" content="${esc(desc)}">
 <meta property="og:image" content="${BASE}/moked/logo-moked.png"><meta property="og:image:width" content="1000"><meta property="og:image:height" content="700">
 <meta property="og:url" content="${BASE}/local/${esc(pid)}"><meta name="twitter:card" content="summary">
@@ -36,7 +36,7 @@ h1{font-size:20px;margin:16px 0 4px}.pid{color:#9ca3af;font-size:12px;letter-spa
 <div class="end">📍 ${esc(c.endereco)}</div>
 <div class="mapa"><iframe title="Mapa" src="${esc(mapsEmbedUrl(pid, 16))}" loading="lazy" referrerpolicy="no-referrer-when-downgrade" allowfullscreen></iframe></div>
 <div class="bt"><a class="b p" href="${esc(mapsDirUrl(pid))}">⌖ Como chegar</a><a class="b s" href="${esc(mapsVerUrl(pid))}">Abrir no Maps</a></div>
-<div class="nota">Compartilhamos o endereço para sua chegada tranquila. "Como chegar" abre o Google Maps a partir de onde você está. Moked Consulting Security · MokLog CheckTest.</div>
+<div class="nota">Compartilhamos o endereço para sua chegada tranquila. "Como chegar" abre o Google Maps a partir de onde você está. Moked Consulting Security · Moked CheckTest.</div>
 </main></body></html>`;
 }
 
